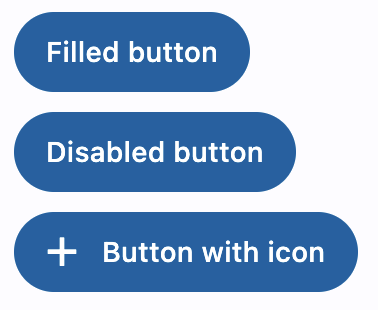
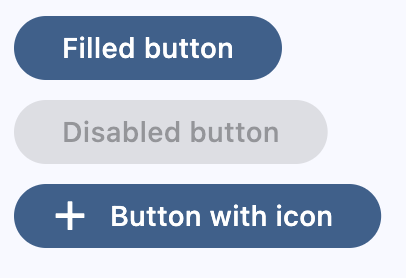
Updated properties and screenshots for FilledTonal and Filled buttons

diff --git a/docs/controls/filledbutton.md b/docs/controls/filledbutton.md
@@ -53,9 +53,21 @@ Defaults to `False`.
 
 True if the control will be selected as the initial focus. If there is more than one control on a page with autofocus set, then the first one added to the page will get focus.
 
+### `bgcolor`
+
+Button's background [color](/docs/reference/colors).
+
+### `color`
+
+Button's text [color](/docs/reference/colors).
+
 ### `content`
 
 A Control representing custom button content.
+
+### `elevation`
+
+Button's elevation.
 
 ### `icon`
 

diff --git a/docs/controls/filledtonalbutton.md b/docs/controls/filledtonalbutton.md
@@ -54,9 +54,21 @@ Defaults to `False`.
 
 True if the control will be selected as the initial focus. If there is more than one control on a page with autofocus set, then the first one added to the page will get focus.
 
+### `bgcolor`
+
+Button's background [color](/docs/reference/colors).
+
+### `color`
+
+Button's text [color](/docs/reference/colors).
+
 ### `content`
 
 A Control representing custom button content.
+
+### `elevation`
+
+Button's elevation.
 
 ### `icon`
 
